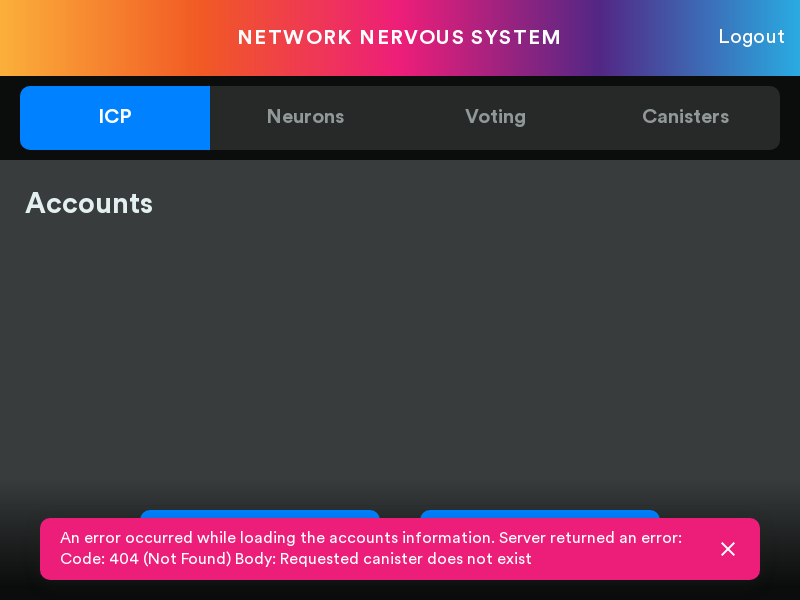
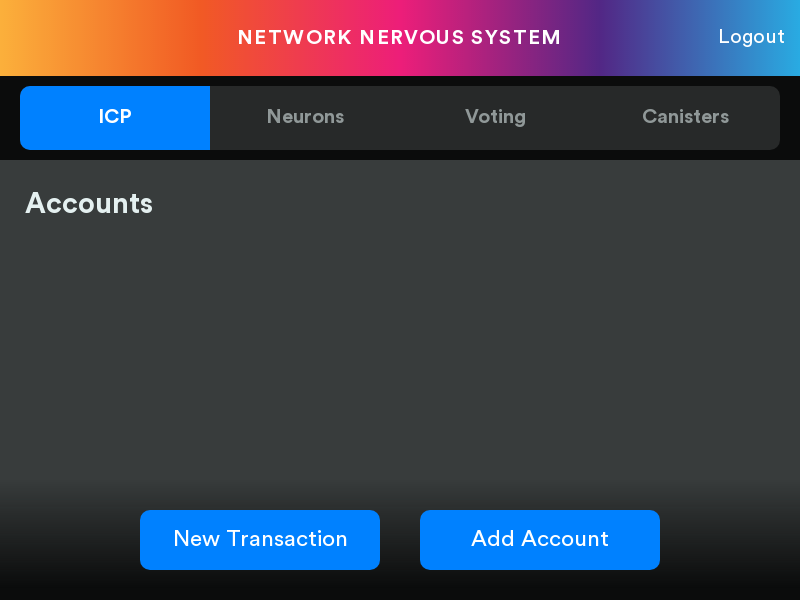
L2-439: More deterministic e2e screenshot (#625)
# Motivation

Make e2e test after registration screenshot more deterministic.

# Changes

* Wait for the toast error and remove it before taking screenshot.

# Tests

The changes are in the e2e test.

Changed region(s): [[0.0312, 0.84, 0.9688, 0.99]]

diff --git a/e2e-tests/specs/home.e2e.ts b/e2e-tests/specs/home.e2e.ts
@@ -1,6 +1,6 @@
-import { register } from '../common/register';
-import { waitForImages } from '../common/waitForImages';
-import { waitForLoad } from '../common/waitForLoad';
+import { register } from "../common/register";
+import { waitForImages } from "../common/waitForImages";
+import { waitForLoad } from "../common/waitForLoad";
 
 describe("landing page", () => {
   it("loads", async () => {
@@ -10,7 +10,7 @@ describe("landing page", () => {
 
     await browser.$("h1").waitForExist();
 
-    await waitForImages(browser)
+    await waitForImages(browser);
 
     await browser["screenshot"]("landing-page");
   });
@@ -26,19 +26,32 @@ describe("landing page", () => {
 
     // At this point it's still the login page
     // We wait for the header of the dashboard
-    await browser.$('header').waitForExist({ timeout: 20_000 });
+    await browser.$("header").waitForExist({ timeout: 20_000 });
     const title = await browser.$("h1");
     const titleText = await title.getText();
 
     expect(titleText).toBe("Accounts");
 
-    // remove spinner to make screenshots deterministic
-    const spinner = await browser.$('main section svg');
-    await spinner.waitForExist();
-    await browser.execute(() => document.querySelector('main section svg').remove());
-    await waitForImages(browser);
-
-    await browser["screenshot"]("home-page");
+    try {
+      // remove spinner to make screenshots deterministic
+      const spinner = await browser.$('[data-tid="spinner"]');
+      await spinner.waitForExist();
+      await browser.execute(() =>
+        document.querySelector('[data-tid="spinner"]').remove()
+      );
+      await waitForImages(browser);
+      // remove toast error to make screenshots deterministic
+      const errorToast = await browser.$(".toast");
+      await errorToast.waitForExist({ timeout: 10_000 });
+      await browser.execute(() => document.querySelector(".toast").remove());
+      await errorToast.waitUntil(() => !errorToast.isExisting())
+    } catch (error) {
+      // Log error, but continue and take screenshot
+      console.log("Error waiting for spinner and toast error");
+      console.log(error);
+    } finally {
+      await browser["screenshot"]("home-page");
+    }
     // TODO: Deploy Ledger and Governance canisters and proxy them
     // How do we do this when they are in another repo? Do we have a repository of docker images?
     // TODO: Create docker image of NNS Dapp with IDENTITY_SERVICE_URL pointing to these proxies

diff --git a/frontend/svelte/src/lib/components/ui/Spinner.svelte b/frontend/svelte/src/lib/components/ui/Spinner.svelte
@@ -8,6 +8,7 @@
   preserveAspectRatio="xMidYMid meet"
   focusable="false"
   aria-hidden="true"
+  data-tid="spinner"
   viewBox="0 0 100 100"><circle cx="50%" cy="50%" r="45" /></svg
 >
 